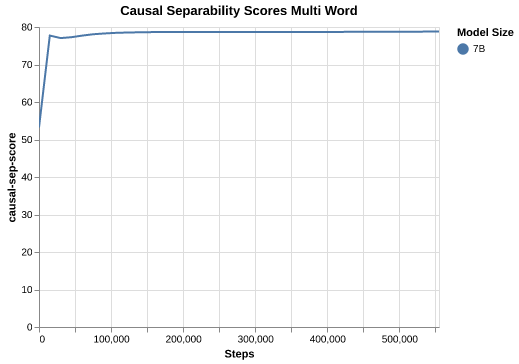
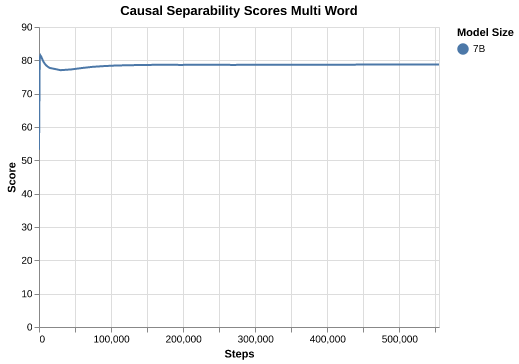
olmo plots again

diff --git a/llm_ontology/figures/model_score_plots_olmo_multi/combined_scores.html b/llm_ontology/figures/model_score_plots_olmo_multi/combined_scores.html
@@ -20,7 +20,7 @@
   <div id="vis"></div>
   <script>
     (function(vegaEmbed) {
-      var spec = {"config": {"view": {"continuousWidth": 300, "continuousHeight": 300}}, "hconcat": [{"layer": [{"mark": {"type": "line", "interpolate": "linear"}, "encoding": {"color": {"field": "Model Size", "sort": ["7B"], "type": "nominal"}, "x": {"field": "Step", "scale": {"nice": false}, "title": "Steps", "type": "quantitative"}, "y": {"field": "Score", "title": "causal-sep-score", "type": "quantitative"}}, "name": "view_7"}, {"mark": {"type": "point"}, "encoding": {"opacity": {"value": 0}, "x": {"field": "Step", "scale": {"nice": false}, "title": "Steps", "type": "quantitative"}}, "name": "view_1"}, {"mark": {"type": "point"}, "encoding": {"color": {"field": "Model Size", "sort": ["7B"], "type": "nominal"}, "opacity": {"condition": [{"param": "param_1", "value": 1, "empty": false}], "value": 0}, "x": {"field": "Step", "scale": {"nice": false}, "title": "Steps", "type": "quantitative"}, "y": {"field": "Score", "title": "causal-sep-score", "type": "quantitative"}}}, {"mark": {"type": "rule", "color": "gray"}, "encoding": {"x": {"field": "Step", "scale": {"nice": false}, "title": "Steps", "type": "quantitative"}}, "transform": [{"filter": {"param": "param_1", "empty": false}}]}, {"mark": {"type": "text", "align": "left", "dx": 5, "dy": -5}, "encoding": {"color": {"field": "Model Size", "sort": ["7B"], "type": "nominal"}, "text": {"condition": {"param": "param_1", "empty": false, "field": "Score", "type": "quantitative"}, "value": " "}, "x": {"field": "Step", "scale": {"nice": false}, "title": "Steps", "type": "quantitative"}, "y": {"field": "Score", "title": "causal-sep-score", "type": "quantitative"}}}], "data": {"name": "data-6a673208f4646ae39fd92b779dcf2e3f"}, "height": 300, "title": "Causal Separability Scores Multi Word", "width": 400}, {"layer": [{"mark": {"type": "line", "interpolate": "linear"}, "encoding": {"color": {"field": "Model Size", "sort": ["7B"], "type": "nominal"}, "x": {"field": "Step", "scale": {"nice": false}, "title": "Steps", "type": "quantitative"}, "y": {"field": "Score", "title": "hierarchy-score", "type": "quantitative"}}, "name": "view_8"}, {"mark": {"type": "point"}, "encoding": {"opacity": {"value": 0}, "x": {"field": "Step", "scale": {"nice": false}, "title": "Steps", "type": "quantitative"}}, "name": "view_4"}, {"mark": {"type": "point"}, "encoding": {"color": {"field": "Model Size", "sort": ["7B"], "type": "nominal"}, "opacity": {"condition": [{"param": "param_3", "value": 1, "empty": false}], "value": 0}, "x": {"field": "Step", "scale": {"nice": false}, "title": "Steps", "type": "quantitative"}, "y": {"field": "Score", "title": "hierarchy-score", "type": "quantitative"}}}, {"mark": {"type": "rule", "color": "gray"}, "encoding": {"x": {"field": "Step", "scale": {"nice": false}, "title": "Steps", "type": "quantitative"}}, "transform": [{"filter": {"param": "param_3", "empty": false}}]}, {"mark": {"type": "text", "align": "left", "dx": 5, "dy": -5}, "encoding": {"color": {"field": "Model Size", "sort": ["7B"], "type": "nominal"}, "text": {"condition": {"param": "param_3", "empty": false, "field": "Score", "type": "quantitative"}, "value": " "}, "x": {"field": "Step", "scale": {"nice": false}, "title": "Steps", "type": "quantitative"}, "y": {"field": "Score", "title": "hierarchy-score", "type": "quantitative"}}}], "data": {"name": "data-b532fa5de86e2a9c5fb7c6b8fd9c52b1"}, "height": 300, "title": "Hierarchy Scores Multi Word", "width": 400}], "params": [{"name": "param_1", "select": {"type": "point", "fields": ["Step"], "nearest": true, "on": "pointerover"}, "views": ["view_1"]}, {"name": "param_2", "select": {"type": "interval", "encodings": ["x", "y"]}, "bind": "scales", "views": ["view_7"]}, {"name": "param_3", "select": {"type": "point", "fields": ["Step"], "nearest": true, "on": "pointerover"}, "views": ["view_4"]}, {"name": "param_4", "select": {"type": "interval", "encodings": ["x", "y"]}, "bind": "scales", "views": ["view_8"]}], "$schema": "https://vega.github.io/schema/vega-lite/v5.20.1.json", "datasets": {"data-6a673208f4646ae39fd92b779dcf2e3f": [{"Step": 0, "Model Size": "7B", "Score": 53.18775143369876}, {"Step": 15000, "Model Size": "7B", "Score": 77.71820763159397}, {"Step": 30000, "Model Size": "7B", "Score": 77.04524152646873}, {"Step": 45000, "Model Size": "7B", "Score": 77.28071349104272}, {"Step": 60000, "Model Size": "7B", "Score": 77.70637146616843}, {"Step": 75000, "Model Size": "7B", "Score": 78.06089254825967}, {"Step": 90000, "Model Size": "7B", "Score": 78.267476261186}, {"Step": 105000, "Model Size": "7B", "Score": 78.42721138386075}, {"Step": 120000, "Model Size": "7B", "Score": 78.51562228733239}, {"Step": 135000, "Model Size": "7B", "Score": 78.57400227800719}, {"Step": 150000, "Model Size": "7B", "Score": 78.61664610806781}, {"Step": 165000, "Model Size": "7B", "Score": 78.66453401652849}, {"Step": 180000, "Model Size": "7B", "Score": 78.66540761565922}, {"Step": 195000, "Model Size": "7B", "Score": 78.63386861370353}, {"Step": 210000, "Model Size": "7B", "Score": 78.6443082709069}, {"Step": 225000, "Model Size": "7B", "Score": 78.65965973906809}, {"Step": 240000, "Model Size": "7B", "Score": 78.65877248218564}, {"Step": 255000, "Model Size": "7B", "Score": 78.64459225063938}, {"Step": 270000, "Model Size": "7B", "Score": 78.63358887955013}, {"Step": 285000, "Model Size": "7B", "Score": 78.64747598977235}, {"Step": 300000, "Model Size": "7B", "Score": 78.65401739048148}, {"Step": 315000, "Model Size": "7B", "Score": 78.65828369895137}, {"Step": 330000, "Model Size": "7B", "Score": 78.67396707002106}, {"Step": 345000, "Model Size": "7B", "Score": 78.65961730312236}, {"Step": 360000, "Model Size": "7B", "Score": 78.6533305213635}, {"Step": 375000, "Model Size": "7B", "Score": 78.68220594972647}, {"Step": 390000, "Model Size": "7B", "Score": 78.68335020804844}, {"Step": 405000, "Model Size": "7B", "Score": 78.68567823880281}, {"Step": 420000, "Model Size": "7B", "Score": 78.6987988580928}, {"Step": 435000, "Model Size": "7B", "Score": 78.7034630337812}, {"Step": 450000, "Model Size": "7B", "Score": 78.73154602058426}, {"Step": 465000, "Model Size": "7B", "Score": 78.74501046174926}, {"Step": 480000, "Model Size": "7B", "Score": 78.76405615967997}, {"Step": 495000, "Model Size": "7B", "Score": 78.76649308230743}, {"Step": 510000, "Model Size": "7B", "Score": 78.76602960104277}, {"Step": 525000, "Model Size": "7B", "Score": 78.76258634345616}, {"Step": 540000, "Model Size": "7B", "Score": 78.76907588593411}, {"Step": 555000, "Model Size": "7B", "Score": 78.7711073747576}], "data-b532fa5de86e2a9c5fb7c6b8fd9c52b1": [{"Step": 0, "Model Size": "7B", "Score": 13.864714622497559}, {"Step": 15000, "Model Size": "7B", "Score": 16.890594482421875}, {"Step": 30000, "Model Size": "7B", "Score": 17.037918090820312}, {"Step": 45000, "Model Size": "7B", "Score": 17.228824615478516}, {"Step": 60000, "Model Size": "7B", "Score": 17.3869571685791}, {"Step": 75000, "Model Size": "7B", "Score": 17.489360809326172}, {"Step": 90000, "Model Size": "7B", "Score": 17.544898986816406}, {"Step": 105000, "Model Size": "7B", "Score": 17.58591079711914}, {"Step": 120000, "Model Size": "7B", "Score": 17.607934951782227}, {"Step": 135000, "Model Size": "7B", "Score": 17.624034881591797}, {"Step": 150000, "Model Size": "7B", "Score": 17.638690948486328}, {"Step": 165000, "Model Size": "7B", "Score": 17.638864517211914}, {"Step": 180000, "Model Size": "7B", "Score": 17.65089225769043}, {"Step": 195000, "Model Size": "7B", "Score": 17.660762786865234}, {"Step": 210000, "Model Size": "7B", "Score": 17.672544479370117}, {"Step": 225000, "Model Size": "7B", "Score": 17.688474655151367}, {"Step": 240000, "Model Size": "7B", "Score": 17.702510833740234}, {"Step": 255000, "Model Size": "7B", "Score": 17.710391998291016}, {"Step": 270000, "Model Size": "7B", "Score": 17.719873428344727}, {"Step": 285000, "Model Size": "7B", "Score": 17.73575782775879}, {"Step": 300000, "Model Size": "7B", "Score": 17.73572540283203}, {"Step": 315000, "Model Size": "7B", "Score": 17.743715286254883}, {"Step": 330000, "Model Size": "7B", "Score": 17.757770538330078}, {"Step": 345000, "Model Size": "7B", "Score": 17.764863967895508}, {"Step": 360000, "Model Size": "7B", "Score": 17.77369499206543}, {"Step": 375000, "Model Size": "7B", "Score": 17.782432556152344}, {"Step": 390000, "Model Size": "7B", "Score": 17.789159774780273}, {"Step": 405000, "Model Size": "7B", "Score": 17.795631408691406}, {"Step": 420000, "Model Size": "7B", "Score": 17.806970596313477}, {"Step": 435000, "Model Size": "7B", "Score": 17.814992904663086}, {"Step": 450000, "Model Size": "7B", "Score": 17.827510833740234}, {"Step": 465000, "Model Size": "7B", "Score": 17.835655212402344}, {"Step": 480000, "Model Size": "7B", "Score": 17.843456268310547}, {"Step": 495000, "Model Size": "7B", "Score": 17.84760284423828}, {"Step": 510000, "Model Size": "7B", "Score": 17.85563850402832}, {"Step": 525000, "Model Size": "7B", "Score": 17.86161231994629}, {"Step": 540000, "Model Size": "7B", "Score": 17.867862701416016}, {"Step": 555000, "Model Size": "7B", "Score": 17.870758056640625}]}};
+      var spec = {"config": {"view": {"continuousWidth": 300, "continuousHeight": 300}}, "hconcat": [{"layer": [{"mark": {"type": "line", "interpolate": "linear"}, "encoding": {"color": {"field": "Model Size", "type": "nominal"}, "tooltip": [{"field": "Step", "type": "quantitative"}, {"field": "Score", "type": "quantitative"}, {"field": "Model Size", "type": "nominal"}], "x": {"field": "Step", "type": "quantitative"}, "y": {"field": "Score", "type": "quantitative"}}, "name": "view_1"}, {"mark": {"type": "point"}, "encoding": {"opacity": {"value": 0}, "x": {"field": "Step", "scale": {"nice": false}, "title": "Steps", "type": "quantitative"}}, "name": "view_2"}, {"mark": {"type": "point"}, "encoding": {"color": {"field": "Model Size", "type": "nominal"}, "opacity": {"condition": [{"param": "param_1", "value": 1, "empty": false}], "value": 0}, "tooltip": [{"field": "Step", "type": "quantitative"}, {"field": "Score", "type": "quantitative"}, {"field": "Model Size", "type": "nominal"}], "x": {"field": "Step", "type": "quantitative"}, "y": {"field": "Score", "type": "quantitative"}}}, {"mark": {"type": "rule", "color": "gray"}, "encoding": {"x": {"field": "Step", "scale": {"nice": false}, "title": "Steps", "type": "quantitative"}}, "transform": [{"filter": {"param": "param_1", "empty": false}}]}, {"mark": {"type": "text", "align": "left", "dx": 5, "dy": -5}, "encoding": {"color": {"field": "Model Size", "type": "nominal"}, "text": {"condition": {"param": "param_1", "empty": false, "field": "Score", "type": "quantitative"}, "value": " "}, "tooltip": [{"field": "Step", "type": "quantitative"}, {"field": "Score", "type": "quantitative"}, {"field": "Model Size", "type": "nominal"}], "x": {"field": "Step", "type": "quantitative"}, "y": {"field": "Score", "type": "quantitative"}}}], "data": {"name": "data-d38622d1b3f7dccd476671307f6956b1"}, "height": 300, "title": "Causal Separability Scores Multi Word", "width": 400}, {"layer": [{"mark": {"type": "line", "interpolate": "linear"}, "encoding": {"color": {"field": "Model Size", "type": "nominal"}, "tooltip": [{"field": "Step", "type": "quantitative"}, {"field": "Score", "type": "quantitative"}, {"field": "Model Size", "type": "nominal"}], "x": {"field": "Step", "type": "quantitative"}, "y": {"field": "Score", "type": "quantitative"}}, "name": "view_3"}, {"mark": {"type": "point"}, "encoding": {"opacity": {"value": 0}, "x": {"field": "Step", "scale": {"nice": false}, "title": "Steps", "type": "quantitative"}}, "name": "view_4"}, {"mark": {"type": "point"}, "encoding": {"color": {"field": "Model Size", "type": "nominal"}, "opacity": {"condition": [{"param": "param_4", "value": 1, "empty": false}], "value": 0}, "tooltip": [{"field": "Step", "type": "quantitative"}, {"field": "Score", "type": "quantitative"}, {"field": "Model Size", "type": "nominal"}], "x": {"field": "Step", "type": "quantitative"}, "y": {"field": "Score", "type": "quantitative"}}}, {"mark": {"type": "rule", "color": "gray"}, "encoding": {"x": {"field": "Step", "scale": {"nice": false}, "title": "Steps", "type": "quantitative"}}, "transform": [{"filter": {"param": "param_4", "empty": false}}]}, {"mark": {"type": "text", "align": "left", "dx": 5, "dy": -5}, "encoding": {"color": {"field": "Model Size", "type": "nominal"}, "text": {"condition": {"param": "param_4", "empty": false, "field": "Score", "type": "quantitative"}, "value": " "}, "tooltip": [{"field": "Step", "type": "quantitative"}, {"field": "Score", "type": "quantitative"}, {"field": "Model Size", "type": "nominal"}], "x": {"field": "Step", "type": "quantitative"}, "y": {"field": "Score", "type": "quantitative"}}}], "data": {"name": "data-d0e69fbd8c3f5716985e8ce68de797cb"}, "height": 300, "title": "Hierarchy Scores Multi Word", "width": 400}], "params": [{"name": "param_2", "select": {"type": "interval", "encodings": ["x", "y"]}, "bind": "scales", "views": ["view_1"]}, {"name": "param_1", "select": {"type": "point", "fields": ["Step"], "nearest": true, "on": "pointerover"}, "views": ["view_2"]}, {"name": "param_3", "select": {"type": "interval", "encodings": ["x", "y"]}, "bind": "scales", "views": ["view_1"]}, {"name": "param_5", "select": {"type": "interval", "encodings": ["x", "y"]}, "bind": "scales", "views": ["view_3"]}, {"name": "param_4", "select": {"type": "point", "fields": ["Step"], "nearest": true, "on": "pointerover"}, "views": ["view_4"]}, {"name": "param_6", "select": {"type": "interval", "encodings": ["x", "y"]}, "bind": "scales", "views": ["view_3"]}], "$schema": "https://vega.github.io/schema/vega-lite/v5.20.1.json", "datasets": {"data-d38622d1b3f7dccd476671307f6956b1": [{"Step": 0, "Model Size": "7B", "Score": 53.18775143369876}, {"Step": 1000, "Model Size": "7B", "Score": 80.59855498858677}, {"Step": 2000, "Model Size": "7B", "Score": 81.47299264547522}, {"Step": 3000, "Model Size": "7B", "Score": 81.12202177753935}, {"Step": 4000, "Model Size": "7B", "Score": 80.63348046152622}, {"Step": 5000, "Model Size": "7B", "Score": 80.13230974078138}, {"Step": 6000, "Model Size": "7B", "Score": 79.67382040361855}, {"Step": 7000, "Model Size": "7B", "Score": 79.31149565225125}, {"Step": 8000, "Model Size": "7B", "Score": 78.98448432141532}, {"Step": 9000, "Model Size": "7B", "Score": 78.72371111000464}, {"Step": 10000, "Model Size": "7B", "Score": 78.48467635284516}, {"Step": 11000, "Model Size": "7B", "Score": 78.29027851920448}, {"Step": 12000, "Model Size": "7B", "Score": 78.12299568054975}, {"Step": 13000, "Model Size": "7B", "Score": 77.96870994314274}, {"Step": 14000, "Model Size": "7B", "Score": 77.82651225367971}, {"Step": 15000, "Model Size": "7B", "Score": 77.71820763159397}, {"Step": 30000, "Model Size": "7B", "Score": 77.04524152646873}, {"Step": 45000, "Model Size": "7B", "Score": 77.28071349104272}, {"Step": 60000, "Model Size": "7B", "Score": 77.70637146616843}, {"Step": 75000, "Model Size": "7B", "Score": 78.06089254825967}, {"Step": 90000, "Model Size": "7B", "Score": 78.267476261186}, {"Step": 105000, "Model Size": "7B", "Score": 78.42721138386075}, {"Step": 120000, "Model Size": "7B", "Score": 78.51562228733239}, {"Step": 135000, "Model Size": "7B", "Score": 78.57400227800719}, {"Step": 150000, "Model Size": "7B", "Score": 78.61664610806781}, {"Step": 165000, "Model Size": "7B", "Score": 78.66453401652849}, {"Step": 180000, "Model Size": "7B", "Score": 78.66540761565922}, {"Step": 195000, "Model Size": "7B", "Score": 78.63386861370353}, {"Step": 210000, "Model Size": "7B", "Score": 78.6443082709069}, {"Step": 225000, "Model Size": "7B", "Score": 78.65965973906809}, {"Step": 240000, "Model Size": "7B", "Score": 78.65877248218564}, {"Step": 255000, "Model Size": "7B", "Score": 78.64459225063938}, {"Step": 270000, "Model Size": "7B", "Score": 78.63358887955013}, {"Step": 285000, "Model Size": "7B", "Score": 78.64747598977235}, {"Step": 300000, "Model Size": "7B", "Score": 78.65401739048148}, {"Step": 315000, "Model Size": "7B", "Score": 78.65828369895137}, {"Step": 330000, "Model Size": "7B", "Score": 78.67396707002106}, {"Step": 345000, "Model Size": "7B", "Score": 78.65961730312236}, {"Step": 360000, "Model Size": "7B", "Score": 78.6533305213635}, {"Step": 375000, "Model Size": "7B", "Score": 78.68220594972647}, {"Step": 390000, "Model Size": "7B", "Score": 78.68335020804844}, {"Step": 405000, "Model Size": "7B", "Score": 78.68567823880281}, {"Step": 420000, "Model Size": "7B", "Score": 78.6987988580928}, {"Step": 435000, "Model Size": "7B", "Score": 78.7034630337812}, {"Step": 450000, "Model Size": "7B", "Score": 78.73154602058426}, {"Step": 465000, "Model Size": "7B", "Score": 78.74501046174926}, {"Step": 480000, "Model Size": "7B", "Score": 78.76405615967997}, {"Step": 495000, "Model Size": "7B", "Score": 78.76649308230743}, {"Step": 510000, "Model Size": "7B", "Score": 78.76602960104277}, {"Step": 525000, "Model Size": "7B", "Score": 78.76258634345616}, {"Step": 540000, "Model Size": "7B", "Score": 78.76907588593411}, {"Step": 555000, "Model Size": "7B", "Score": 78.7711073747576}], "data-d0e69fbd8c3f5716985e8ce68de797cb": [{"Step": 0, "Model Size": "7B", "Score": 13.864714622497559}, {"Step": 1000, "Model Size": "7B", "Score": 15.598983764648438}, {"Step": 2000, "Model Size": "7B", "Score": 16.117311477661133}, {"Step": 3000, "Model Size": "7B", "Score": 16.4399356842041}, {"Step": 4000, "Model Size": "7B", "Score": 16.72013282775879}, {"Step": 5000, "Model Size": "7B", "Score": 16.730789184570312}, {"Step": 6000, "Model Size": "7B", "Score": 16.89154052734375}, {"Step": 7000, "Model Size": "7B", "Score": 16.94662094116211}, {"Step": 8000, "Model Size": "7B", "Score": 16.959394454956055}, {"Step": 9000, "Model Size": "7B", "Score": 16.84061622619629}, {"Step": 10000, "Model Size": "7B", "Score": 16.98362922668457}, {"Step": 11000, "Model Size": "7B", "Score": 17.109046936035156}, {"Step": 12000, "Model Size": "7B", "Score": 16.904712677001953}, {"Step": 13000, "Model Size": "7B", "Score": 16.997854232788086}, {"Step": 14000, "Model Size": "7B", "Score": 16.997575759887695}, {"Step": 15000, "Model Size": "7B", "Score": 16.890594482421875}, {"Step": 30000, "Model Size": "7B", "Score": 17.037918090820312}, {"Step": 45000, "Model Size": "7B", "Score": 17.228824615478516}, {"Step": 60000, "Model Size": "7B", "Score": 17.3869571685791}, {"Step": 75000, "Model Size": "7B", "Score": 17.489360809326172}, {"Step": 90000, "Model Size": "7B", "Score": 17.544898986816406}, {"Step": 105000, "Model Size": "7B", "Score": 17.58591079711914}, {"Step": 120000, "Model Size": "7B", "Score": 17.607934951782227}, {"Step": 135000, "Model Size": "7B", "Score": 17.624034881591797}, {"Step": 150000, "Model Size": "7B", "Score": 17.638690948486328}, {"Step": 165000, "Model Size": "7B", "Score": 17.638864517211914}, {"Step": 180000, "Model Size": "7B", "Score": 17.65089225769043}, {"Step": 195000, "Model Size": "7B", "Score": 17.660762786865234}, {"Step": 210000, "Model Size": "7B", "Score": 17.672544479370117}, {"Step": 225000, "Model Size": "7B", "Score": 17.688474655151367}, {"Step": 240000, "Model Size": "7B", "Score": 17.702510833740234}, {"Step": 255000, "Model Size": "7B", "Score": 17.710391998291016}, {"Step": 270000, "Model Size": "7B", "Score": 17.719873428344727}, {"Step": 285000, "Model Size": "7B", "Score": 17.73575782775879}, {"Step": 300000, "Model Size": "7B", "Score": 17.73572540283203}, {"Step": 315000, "Model Size": "7B", "Score": 17.743715286254883}, {"Step": 330000, "Model Size": "7B", "Score": 17.757770538330078}, {"Step": 345000, "Model Size": "7B", "Score": 17.764863967895508}, {"Step": 360000, "Model Size": "7B", "Score": 17.77369499206543}, {"Step": 375000, "Model Size": "7B", "Score": 17.782432556152344}, {"Step": 390000, "Model Size": "7B", "Score": 17.789159774780273}, {"Step": 405000, "Model Size": "7B", "Score": 17.795631408691406}, {"Step": 420000, "Model Size": "7B", "Score": 17.806970596313477}, {"Step": 435000, "Model Size": "7B", "Score": 17.814992904663086}, {"Step": 450000, "Model Size": "7B", "Score": 17.827510833740234}, {"Step": 465000, "Model Size": "7B", "Score": 17.835655212402344}, {"Step": 480000, "Model Size": "7B", "Score": 17.843456268310547}, {"Step": 495000, "Model Size": "7B", "Score": 17.84760284423828}, {"Step": 510000, "Model Size": "7B", "Score": 17.85563850402832}, {"Step": 525000, "Model Size": "7B", "Score": 17.86161231994629}, {"Step": 540000, "Model Size": "7B", "Score": 17.867862701416016}, {"Step": 555000, "Model Size": "7B", "Score": 17.870758056640625}]}};
       var embedOpt = {"mode": "vega-lite"};
 
       function showError(el, error){

diff --git a/llm_ontology/figures/model_score_plots_olmo_multi/hierarchy_scores.html b/llm_ontology/figures/model_score_plots_olmo_multi/hierarchy_scores.html
@@ -20,7 +20,7 @@
   <div id="vis"></div>
   <script>
     (function(vegaEmbed) {
-      var spec = {"config": {"view": {"continuousWidth": 300, "continuousHeight": 300}}, "layer": [{"mark": {"type": "line", "interpolate": "linear"}, "encoding": {"color": {"field": "Model Size", "sort": ["7B"], "type": "nominal"}, "x": {"field": "Step", "scale": {"nice": false}, "title": "Steps", "type": "quantitative"}, "y": {"field": "Score", "title": "hierarchy-score", "type": "quantitative"}}, "name": "view_6"}, {"mark": {"type": "point"}, "encoding": {"opacity": {"value": 0}, "x": {"field": "Step", "scale": {"nice": false}, "title": "Steps", "type": "quantitative"}}, "name": "view_4"}, {"mark": {"type": "point"}, "encoding": {"color": {"field": "Model Size", "sort": ["7B"], "type": "nominal"}, "opacity": {"condition": [{"param": "param_3", "value": 1, "empty": false}], "value": 0}, "x": {"field": "Step", "scale": {"nice": false}, "title": "Steps", "type": "quantitative"}, "y": {"field": "Score", "title": "hierarchy-score", "type": "quantitative"}}}, {"mark": {"type": "rule", "color": "gray"}, "encoding": {"x": {"field": "Step", "scale": {"nice": false}, "title": "Steps", "type": "quantitative"}}, "transform": [{"filter": {"param": "param_3", "empty": false}}]}, {"mark": {"type": "text", "align": "left", "dx": 5, "dy": -5}, "encoding": {"color": {"field": "Model Size", "sort": ["7B"], "type": "nominal"}, "text": {"condition": {"param": "param_3", "empty": false, "field": "Score", "type": "quantitative"}, "value": " "}, "x": {"field": "Step", "scale": {"nice": false}, "title": "Steps", "type": "quantitative"}, "y": {"field": "Score", "title": "hierarchy-score", "type": "quantitative"}}}], "data": {"name": "data-b532fa5de86e2a9c5fb7c6b8fd9c52b1"}, "height": 300, "params": [{"name": "param_3", "select": {"type": "point", "fields": ["Step"], "nearest": true, "on": "pointerover"}, "views": ["view_4"]}, {"name": "param_4", "select": {"type": "interval", "encodings": ["x", "y"]}, "bind": "scales", "views": ["view_6"]}], "title": "Hierarchy Scores Multi Word", "width": 400, "$schema": "https://vega.github.io/schema/vega-lite/v5.20.1.json", "datasets": {"data-b532fa5de86e2a9c5fb7c6b8fd9c52b1": [{"Step": 0, "Model Size": "7B", "Score": 13.864714622497559}, {"Step": 15000, "Model Size": "7B", "Score": 16.890594482421875}, {"Step": 30000, "Model Size": "7B", "Score": 17.037918090820312}, {"Step": 45000, "Model Size": "7B", "Score": 17.228824615478516}, {"Step": 60000, "Model Size": "7B", "Score": 17.3869571685791}, {"Step": 75000, "Model Size": "7B", "Score": 17.489360809326172}, {"Step": 90000, "Model Size": "7B", "Score": 17.544898986816406}, {"Step": 105000, "Model Size": "7B", "Score": 17.58591079711914}, {"Step": 120000, "Model Size": "7B", "Score": 17.607934951782227}, {"Step": 135000, "Model Size": "7B", "Score": 17.624034881591797}, {"Step": 150000, "Model Size": "7B", "Score": 17.638690948486328}, {"Step": 165000, "Model Size": "7B", "Score": 17.638864517211914}, {"Step": 180000, "Model Size": "7B", "Score": 17.65089225769043}, {"Step": 195000, "Model Size": "7B", "Score": 17.660762786865234}, {"Step": 210000, "Model Size": "7B", "Score": 17.672544479370117}, {"Step": 225000, "Model Size": "7B", "Score": 17.688474655151367}, {"Step": 240000, "Model Size": "7B", "Score": 17.702510833740234}, {"Step": 255000, "Model Size": "7B", "Score": 17.710391998291016}, {"Step": 270000, "Model Size": "7B", "Score": 17.719873428344727}, {"Step": 285000, "Model Size": "7B", "Score": 17.73575782775879}, {"Step": 300000, "Model Size": "7B", "Score": 17.73572540283203}, {"Step": 315000, "Model Size": "7B", "Score": 17.743715286254883}, {"Step": 330000, "Model Size": "7B", "Score": 17.757770538330078}, {"Step": 345000, "Model Size": "7B", "Score": 17.764863967895508}, {"Step": 360000, "Model Size": "7B", "Score": 17.77369499206543}, {"Step": 375000, "Model Size": "7B", "Score": 17.782432556152344}, {"Step": 390000, "Model Size": "7B", "Score": 17.789159774780273}, {"Step": 405000, "Model Size": "7B", "Score": 17.795631408691406}, {"Step": 420000, "Model Size": "7B", "Score": 17.806970596313477}, {"Step": 435000, "Model Size": "7B", "Score": 17.814992904663086}, {"Step": 450000, "Model Size": "7B", "Score": 17.827510833740234}, {"Step": 465000, "Model Size": "7B", "Score": 17.835655212402344}, {"Step": 480000, "Model Size": "7B", "Score": 17.843456268310547}, {"Step": 495000, "Model Size": "7B", "Score": 17.84760284423828}, {"Step": 510000, "Model Size": "7B", "Score": 17.85563850402832}, {"Step": 525000, "Model Size": "7B", "Score": 17.86161231994629}, {"Step": 540000, "Model Size": "7B", "Score": 17.867862701416016}, {"Step": 555000, "Model Size": "7B", "Score": 17.870758056640625}]}};
+      var spec = {"config": {"view": {"continuousWidth": 300, "continuousHeight": 300}}, "layer": [{"mark": {"type": "line", "interpolate": "linear"}, "encoding": {"color": {"field": "Model Size", "type": "nominal"}, "tooltip": [{"field": "Step", "type": "quantitative"}, {"field": "Score", "type": "quantitative"}, {"field": "Model Size", "type": "nominal"}], "x": {"field": "Step", "type": "quantitative"}, "y": {"field": "Score", "type": "quantitative"}}, "name": "view_3"}, {"mark": {"type": "point"}, "encoding": {"opacity": {"value": 0}, "x": {"field": "Step", "scale": {"nice": false}, "title": "Steps", "type": "quantitative"}}, "name": "view_4"}, {"mark": {"type": "point"}, "encoding": {"color": {"field": "Model Size", "type": "nominal"}, "opacity": {"condition": [{"param": "param_4", "value": 1, "empty": false}], "value": 0}, "tooltip": [{"field": "Step", "type": "quantitative"}, {"field": "Score", "type": "quantitative"}, {"field": "Model Size", "type": "nominal"}], "x": {"field": "Step", "type": "quantitative"}, "y": {"field": "Score", "type": "quantitative"}}}, {"mark": {"type": "rule", "color": "gray"}, "encoding": {"x": {"field": "Step", "scale": {"nice": false}, "title": "Steps", "type": "quantitative"}}, "transform": [{"filter": {"param": "param_4", "empty": false}}]}, {"mark": {"type": "text", "align": "left", "dx": 5, "dy": -5}, "encoding": {"color": {"field": "Model Size", "type": "nominal"}, "text": {"condition": {"param": "param_4", "empty": false, "field": "Score", "type": "quantitative"}, "value": " "}, "tooltip": [{"field": "Step", "type": "quantitative"}, {"field": "Score", "type": "quantitative"}, {"field": "Model Size", "type": "nominal"}], "x": {"field": "Step", "type": "quantitative"}, "y": {"field": "Score", "type": "quantitative"}}}], "data": {"name": "data-d0e69fbd8c3f5716985e8ce68de797cb"}, "height": 300, "params": [{"name": "param_5", "select": {"type": "interval", "encodings": ["x", "y"]}, "bind": "scales", "views": ["view_3"]}, {"name": "param_4", "select": {"type": "point", "fields": ["Step"], "nearest": true, "on": "pointerover"}, "views": ["view_4"]}, {"name": "param_6", "select": {"type": "interval", "encodings": ["x", "y"]}, "bind": "scales", "views": ["view_3"]}], "title": "Hierarchy Scores Multi Word", "width": 400, "$schema": "https://vega.github.io/schema/vega-lite/v5.20.1.json", "datasets": {"data-d0e69fbd8c3f5716985e8ce68de797cb": [{"Step": 0, "Model Size": "7B", "Score": 13.864714622497559}, {"Step": 1000, "Model Size": "7B", "Score": 15.598983764648438}, {"Step": 2000, "Model Size": "7B", "Score": 16.117311477661133}, {"Step": 3000, "Model Size": "7B", "Score": 16.4399356842041}, {"Step": 4000, "Model Size": "7B", "Score": 16.72013282775879}, {"Step": 5000, "Model Size": "7B", "Score": 16.730789184570312}, {"Step": 6000, "Model Size": "7B", "Score": 16.89154052734375}, {"Step": 7000, "Model Size": "7B", "Score": 16.94662094116211}, {"Step": 8000, "Model Size": "7B", "Score": 16.959394454956055}, {"Step": 9000, "Model Size": "7B", "Score": 16.84061622619629}, {"Step": 10000, "Model Size": "7B", "Score": 16.98362922668457}, {"Step": 11000, "Model Size": "7B", "Score": 17.109046936035156}, {"Step": 12000, "Model Size": "7B", "Score": 16.904712677001953}, {"Step": 13000, "Model Size": "7B", "Score": 16.997854232788086}, {"Step": 14000, "Model Size": "7B", "Score": 16.997575759887695}, {"Step": 15000, "Model Size": "7B", "Score": 16.890594482421875}, {"Step": 30000, "Model Size": "7B", "Score": 17.037918090820312}, {"Step": 45000, "Model Size": "7B", "Score": 17.228824615478516}, {"Step": 60000, "Model Size": "7B", "Score": 17.3869571685791}, {"Step": 75000, "Model Size": "7B", "Score": 17.489360809326172}, {"Step": 90000, "Model Size": "7B", "Score": 17.544898986816406}, {"Step": 105000, "Model Size": "7B", "Score": 17.58591079711914}, {"Step": 120000, "Model Size": "7B", "Score": 17.607934951782227}, {"Step": 135000, "Model Size": "7B", "Score": 17.624034881591797}, {"Step": 150000, "Model Size": "7B", "Score": 17.638690948486328}, {"Step": 165000, "Model Size": "7B", "Score": 17.638864517211914}, {"Step": 180000, "Model Size": "7B", "Score": 17.65089225769043}, {"Step": 195000, "Model Size": "7B", "Score": 17.660762786865234}, {"Step": 210000, "Model Size": "7B", "Score": 17.672544479370117}, {"Step": 225000, "Model Size": "7B", "Score": 17.688474655151367}, {"Step": 240000, "Model Size": "7B", "Score": 17.702510833740234}, {"Step": 255000, "Model Size": "7B", "Score": 17.710391998291016}, {"Step": 270000, "Model Size": "7B", "Score": 17.719873428344727}, {"Step": 285000, "Model Size": "7B", "Score": 17.73575782775879}, {"Step": 300000, "Model Size": "7B", "Score": 17.73572540283203}, {"Step": 315000, "Model Size": "7B", "Score": 17.743715286254883}, {"Step": 330000, "Model Size": "7B", "Score": 17.757770538330078}, {"Step": 345000, "Model Size": "7B", "Score": 17.764863967895508}, {"Step": 360000, "Model Size": "7B", "Score": 17.77369499206543}, {"Step": 375000, "Model Size": "7B", "Score": 17.782432556152344}, {"Step": 390000, "Model Size": "7B", "Score": 17.789159774780273}, {"Step": 405000, "Model Size": "7B", "Score": 17.795631408691406}, {"Step": 420000, "Model Size": "7B", "Score": 17.806970596313477}, {"Step": 435000, "Model Size": "7B", "Score": 17.814992904663086}, {"Step": 450000, "Model Size": "7B", "Score": 17.827510833740234}, {"Step": 465000, "Model Size": "7B", "Score": 17.835655212402344}, {"Step": 480000, "Model Size": "7B", "Score": 17.843456268310547}, {"Step": 495000, "Model Size": "7B", "Score": 17.84760284423828}, {"Step": 510000, "Model Size": "7B", "Score": 17.85563850402832}, {"Step": 525000, "Model Size": "7B", "Score": 17.86161231994629}, {"Step": 540000, "Model Size": "7B", "Score": 17.867862701416016}, {"Step": 555000, "Model Size": "7B", "Score": 17.870758056640625}]}};
       var embedOpt = {"mode": "vega-lite"};
 
       function showError(el, error){

diff --git a/llm_ontology/figures/model_score_plots_olmo_multi/causal_sep_scores.html b/llm_ontology/figures/model_score_plots_olmo_multi/causal_sep_scores.html
@@ -20,7 +20,7 @@
   <div id="vis"></div>
   <script>
     (function(vegaEmbed) {
-      var spec = {"config": {"view": {"continuousWidth": 300, "continuousHeight": 300}}, "layer": [{"mark": {"type": "line", "interpolate": "linear"}, "encoding": {"color": {"field": "Model Size", "sort": ["7B"], "type": "nominal"}, "x": {"field": "Step", "scale": {"nice": false}, "title": "Steps", "type": "quantitative"}, "y": {"field": "Score", "title": "causal-sep-score", "type": "quantitative"}}, "name": "view_3"}, {"mark": {"type": "point"}, "encoding": {"opacity": {"value": 0}, "x": {"field": "Step", "scale": {"nice": false}, "title": "Steps", "type": "quantitative"}}, "name": "view_1"}, {"mark": {"type": "point"}, "encoding": {"color": {"field": "Model Size", "sort": ["7B"], "type": "nominal"}, "opacity": {"condition": [{"param": "param_1", "value": 1, "empty": false}], "value": 0}, "x": {"field": "Step", "scale": {"nice": false}, "title": "Steps", "type": "quantitative"}, "y": {"field": "Score", "title": "causal-sep-score", "type": "quantitative"}}}, {"mark": {"type": "rule", "color": "gray"}, "encoding": {"x": {"field": "Step", "scale": {"nice": false}, "title": "Steps", "type": "quantitative"}}, "transform": [{"filter": {"param": "param_1", "empty": false}}]}, {"mark": {"type": "text", "align": "left", "dx": 5, "dy": -5}, "encoding": {"color": {"field": "Model Size", "sort": ["7B"], "type": "nominal"}, "text": {"condition": {"param": "param_1", "empty": false, "field": "Score", "type": "quantitative"}, "value": " "}, "x": {"field": "Step", "scale": {"nice": false}, "title": "Steps", "type": "quantitative"}, "y": {"field": "Score", "title": "causal-sep-score", "type": "quantitative"}}}], "data": {"name": "data-6a673208f4646ae39fd92b779dcf2e3f"}, "height": 300, "params": [{"name": "param_1", "select": {"type": "point", "fields": ["Step"], "nearest": true, "on": "pointerover"}, "views": ["view_1"]}, {"name": "param_2", "select": {"type": "interval", "encodings": ["x", "y"]}, "bind": "scales", "views": ["view_3"]}], "title": "Causal Separability Scores Multi Word", "width": 400, "$schema": "https://vega.github.io/schema/vega-lite/v5.20.1.json", "datasets": {"data-6a673208f4646ae39fd92b779dcf2e3f": [{"Step": 0, "Model Size": "7B", "Score": 53.18775143369876}, {"Step": 15000, "Model Size": "7B", "Score": 77.71820763159397}, {"Step": 30000, "Model Size": "7B", "Score": 77.04524152646873}, {"Step": 45000, "Model Size": "7B", "Score": 77.28071349104272}, {"Step": 60000, "Model Size": "7B", "Score": 77.70637146616843}, {"Step": 75000, "Model Size": "7B", "Score": 78.06089254825967}, {"Step": 90000, "Model Size": "7B", "Score": 78.267476261186}, {"Step": 105000, "Model Size": "7B", "Score": 78.42721138386075}, {"Step": 120000, "Model Size": "7B", "Score": 78.51562228733239}, {"Step": 135000, "Model Size": "7B", "Score": 78.57400227800719}, {"Step": 150000, "Model Size": "7B", "Score": 78.61664610806781}, {"Step": 165000, "Model Size": "7B", "Score": 78.66453401652849}, {"Step": 180000, "Model Size": "7B", "Score": 78.66540761565922}, {"Step": 195000, "Model Size": "7B", "Score": 78.63386861370353}, {"Step": 210000, "Model Size": "7B", "Score": 78.6443082709069}, {"Step": 225000, "Model Size": "7B", "Score": 78.65965973906809}, {"Step": 240000, "Model Size": "7B", "Score": 78.65877248218564}, {"Step": 255000, "Model Size": "7B", "Score": 78.64459225063938}, {"Step": 270000, "Model Size": "7B", "Score": 78.63358887955013}, {"Step": 285000, "Model Size": "7B", "Score": 78.64747598977235}, {"Step": 300000, "Model Size": "7B", "Score": 78.65401739048148}, {"Step": 315000, "Model Size": "7B", "Score": 78.65828369895137}, {"Step": 330000, "Model Size": "7B", "Score": 78.67396707002106}, {"Step": 345000, "Model Size": "7B", "Score": 78.65961730312236}, {"Step": 360000, "Model Size": "7B", "Score": 78.6533305213635}, {"Step": 375000, "Model Size": "7B", "Score": 78.68220594972647}, {"Step": 390000, "Model Size": "7B", "Score": 78.68335020804844}, {"Step": 405000, "Model Size": "7B", "Score": 78.68567823880281}, {"Step": 420000, "Model Size": "7B", "Score": 78.6987988580928}, {"Step": 435000, "Model Size": "7B", "Score": 78.7034630337812}, {"Step": 450000, "Model Size": "7B", "Score": 78.73154602058426}, {"Step": 465000, "Model Size": "7B", "Score": 78.74501046174926}, {"Step": 480000, "Model Size": "7B", "Score": 78.76405615967997}, {"Step": 495000, "Model Size": "7B", "Score": 78.76649308230743}, {"Step": 510000, "Model Size": "7B", "Score": 78.76602960104277}, {"Step": 525000, "Model Size": "7B", "Score": 78.76258634345616}, {"Step": 540000, "Model Size": "7B", "Score": 78.76907588593411}, {"Step": 555000, "Model Size": "7B", "Score": 78.7711073747576}]}};
+      var spec = {"config": {"view": {"continuousWidth": 300, "continuousHeight": 300}}, "layer": [{"mark": {"type": "line", "interpolate": "linear"}, "encoding": {"color": {"field": "Model Size", "type": "nominal"}, "tooltip": [{"field": "Step", "type": "quantitative"}, {"field": "Score", "type": "quantitative"}, {"field": "Model Size", "type": "nominal"}], "x": {"field": "Step", "type": "quantitative"}, "y": {"field": "Score", "type": "quantitative"}}, "name": "view_1"}, {"mark": {"type": "point"}, "encoding": {"opacity": {"value": 0}, "x": {"field": "Step", "scale": {"nice": false}, "title": "Steps", "type": "quantitative"}}, "name": "view_2"}, {"mark": {"type": "point"}, "encoding": {"color": {"field": "Model Size", "type": "nominal"}, "opacity": {"condition": [{"param": "param_1", "value": 1, "empty": false}], "value": 0}, "tooltip": [{"field": "Step", "type": "quantitative"}, {"field": "Score", "type": "quantitative"}, {"field": "Model Size", "type": "nominal"}], "x": {"field": "Step", "type": "quantitative"}, "y": {"field": "Score", "type": "quantitative"}}}, {"mark": {"type": "rule", "color": "gray"}, "encoding": {"x": {"field": "Step", "scale": {"nice": false}, "title": "Steps", "type": "quantitative"}}, "transform": [{"filter": {"param": "param_1", "empty": false}}]}, {"mark": {"type": "text", "align": "left", "dx": 5, "dy": -5}, "encoding": {"color": {"field": "Model Size", "type": "nominal"}, "text": {"condition": {"param": "param_1", "empty": false, "field": "Score", "type": "quantitative"}, "value": " "}, "tooltip": [{"field": "Step", "type": "quantitative"}, {"field": "Score", "type": "quantitative"}, {"field": "Model Size", "type": "nominal"}], "x": {"field": "Step", "type": "quantitative"}, "y": {"field": "Score", "type": "quantitative"}}}], "data": {"name": "data-d38622d1b3f7dccd476671307f6956b1"}, "height": 300, "params": [{"name": "param_2", "select": {"type": "interval", "encodings": ["x", "y"]}, "bind": "scales", "views": ["view_1"]}, {"name": "param_1", "select": {"type": "point", "fields": ["Step"], "nearest": true, "on": "pointerover"}, "views": ["view_2"]}, {"name": "param_3", "select": {"type": "interval", "encodings": ["x", "y"]}, "bind": "scales", "views": ["view_1"]}], "title": "Causal Separability Scores Multi Word", "width": 400, "$schema": "https://vega.github.io/schema/vega-lite/v5.20.1.json", "datasets": {"data-d38622d1b3f7dccd476671307f6956b1": [{"Step": 0, "Model Size": "7B", "Score": 53.18775143369876}, {"Step": 1000, "Model Size": "7B", "Score": 80.59855498858677}, {"Step": 2000, "Model Size": "7B", "Score": 81.47299264547522}, {"Step": 3000, "Model Size": "7B", "Score": 81.12202177753935}, {"Step": 4000, "Model Size": "7B", "Score": 80.63348046152622}, {"Step": 5000, "Model Size": "7B", "Score": 80.13230974078138}, {"Step": 6000, "Model Size": "7B", "Score": 79.67382040361855}, {"Step": 7000, "Model Size": "7B", "Score": 79.31149565225125}, {"Step": 8000, "Model Size": "7B", "Score": 78.98448432141532}, {"Step": 9000, "Model Size": "7B", "Score": 78.72371111000464}, {"Step": 10000, "Model Size": "7B", "Score": 78.48467635284516}, {"Step": 11000, "Model Size": "7B", "Score": 78.29027851920448}, {"Step": 12000, "Model Size": "7B", "Score": 78.12299568054975}, {"Step": 13000, "Model Size": "7B", "Score": 77.96870994314274}, {"Step": 14000, "Model Size": "7B", "Score": 77.82651225367971}, {"Step": 15000, "Model Size": "7B", "Score": 77.71820763159397}, {"Step": 30000, "Model Size": "7B", "Score": 77.04524152646873}, {"Step": 45000, "Model Size": "7B", "Score": 77.28071349104272}, {"Step": 60000, "Model Size": "7B", "Score": 77.70637146616843}, {"Step": 75000, "Model Size": "7B", "Score": 78.06089254825967}, {"Step": 90000, "Model Size": "7B", "Score": 78.267476261186}, {"Step": 105000, "Model Size": "7B", "Score": 78.42721138386075}, {"Step": 120000, "Model Size": "7B", "Score": 78.51562228733239}, {"Step": 135000, "Model Size": "7B", "Score": 78.57400227800719}, {"Step": 150000, "Model Size": "7B", "Score": 78.61664610806781}, {"Step": 165000, "Model Size": "7B", "Score": 78.66453401652849}, {"Step": 180000, "Model Size": "7B", "Score": 78.66540761565922}, {"Step": 195000, "Model Size": "7B", "Score": 78.63386861370353}, {"Step": 210000, "Model Size": "7B", "Score": 78.6443082709069}, {"Step": 225000, "Model Size": "7B", "Score": 78.65965973906809}, {"Step": 240000, "Model Size": "7B", "Score": 78.65877248218564}, {"Step": 255000, "Model Size": "7B", "Score": 78.64459225063938}, {"Step": 270000, "Model Size": "7B", "Score": 78.63358887955013}, {"Step": 285000, "Model Size": "7B", "Score": 78.64747598977235}, {"Step": 300000, "Model Size": "7B", "Score": 78.65401739048148}, {"Step": 315000, "Model Size": "7B", "Score": 78.65828369895137}, {"Step": 330000, "Model Size": "7B", "Score": 78.67396707002106}, {"Step": 345000, "Model Size": "7B", "Score": 78.65961730312236}, {"Step": 360000, "Model Size": "7B", "Score": 78.6533305213635}, {"Step": 375000, "Model Size": "7B", "Score": 78.68220594972647}, {"Step": 390000, "Model Size": "7B", "Score": 78.68335020804844}, {"Step": 405000, "Model Size": "7B", "Score": 78.68567823880281}, {"Step": 420000, "Model Size": "7B", "Score": 78.6987988580928}, {"Step": 435000, "Model Size": "7B", "Score": 78.7034630337812}, {"Step": 450000, "Model Size": "7B", "Score": 78.73154602058426}, {"Step": 465000, "Model Size": "7B", "Score": 78.74501046174926}, {"Step": 480000, "Model Size": "7B", "Score": 78.76405615967997}, {"Step": 495000, "Model Size": "7B", "Score": 78.76649308230743}, {"Step": 510000, "Model Size": "7B", "Score": 78.76602960104277}, {"Step": 525000, "Model Size": "7B", "Score": 78.76258634345616}, {"Step": 540000, "Model Size": "7B", "Score": 78.76907588593411}, {"Step": 555000, "Model Size": "7B", "Score": 78.7711073747576}]}};
       var embedOpt = {"mode": "vega-lite"};
 
       function showError(el, error){
